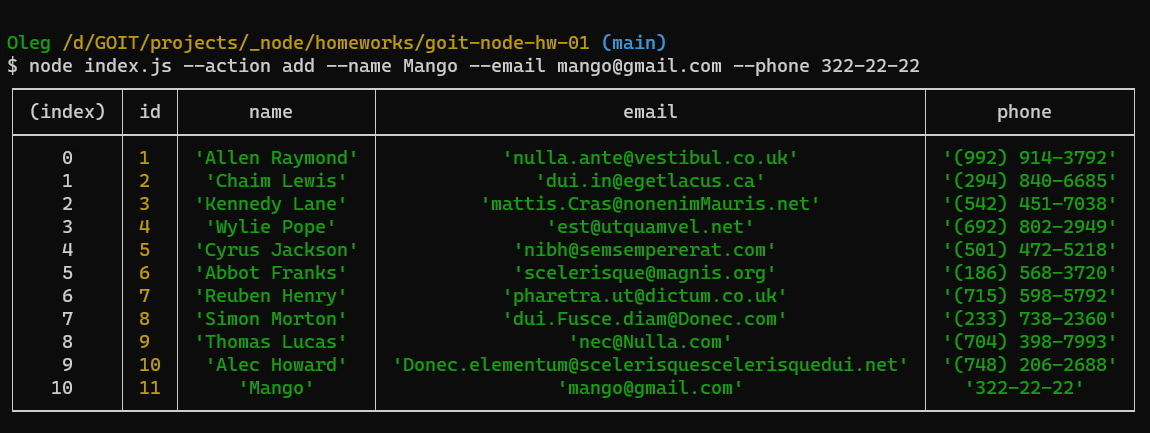
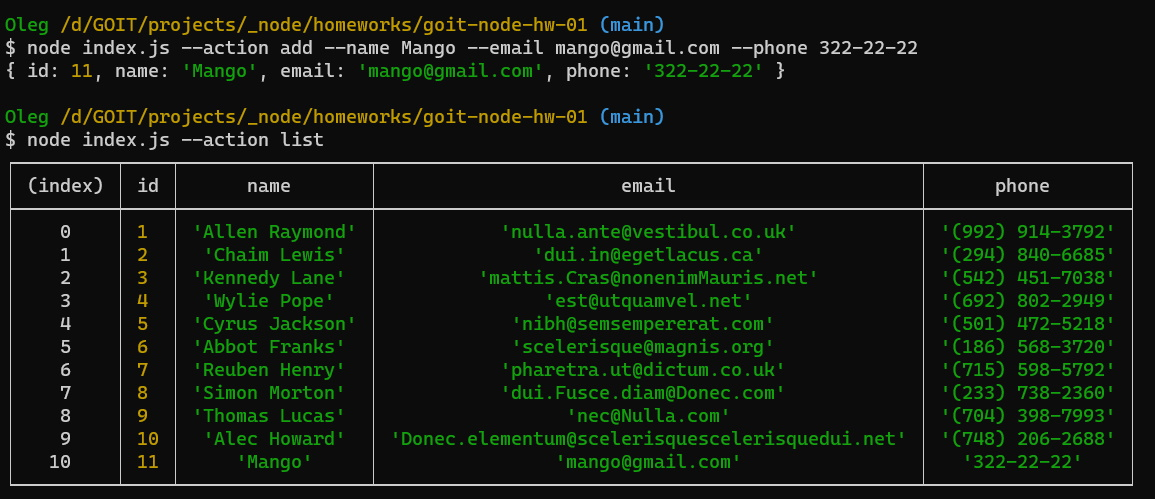
Refactoring add and remove functions

Changed region(s): [[0.0, 0.03, 1.0, 0.9908], [0.0304, 0.5104, 0.0609, 0.7506], [0.8522, 0.2402, 0.913, 0.2702]]

diff --git a/contacts.js b/contacts.js
@@ -6,10 +6,10 @@ const contactsPath = path.join(__dirname, 'db', 'contacts.json');
 // Получаем и выводим весь список контактов в виде таблицы (console.table)
 const listContacts = async () => {
   try {
-    const data = await fs.readFile(contactsPath, 'utf8');
-    return JSON.parse(data);
+    const contacts = await fs.readFile(contactsPath);
+    return JSON.parse(contacts);
   } catch (err) {
-    console.log(err);
+    console.error(err);
   }
 };
 
@@ -20,29 +20,34 @@ const getContactById = async contactId => {
     return;
   }
   try {
-    const data = await listContacts();
-    return data.find(item => item.id === contactId);
+    const contacts = await listContacts();
+    const contact = contacts.find(item => item.id === contactId);
+    if (!contact) {
+      return null;
+    }
+    return contact;
   } catch (err) {
-    console.log(err);
+    console.error(err);
   }
 };
 
 // Удаляем контакт
 const removeContact = async contactId => {
   if (!contactId) {
-    console.warn('Enter user ID');
+    console.warn('Id is not passed');
     return;
   }
   try {
-    const data = await listContacts();
-    const newContacts = data.filter(({ id }) => id !== contactId);
-    if (data.length === newContacts.length) {
-      return 'There is no such contact';
+    const contacts = await listContacts();
+    const contact = contacts.find(item => item.id === contactId);
+    if (!contact) {
+      return null;
     }
-    await fs.writeFile(contactsPath, JSON.stringify(newContacts), 'utf8');
-    return await listContacts();
+    const newContacts = contacts.filter(({ id }) => id !== contactId);
+    await fs.writeFile(contactsPath, JSON.stringify(newContacts));
+    return contact;
   } catch (err) {
-    console.log(err);
+    console.error(err);
   }
 };
 
@@ -54,21 +59,26 @@ const getNewId = async () => {
     await fs.writeFile(idsPath, String(newId), 'utf8');
     return newId;
   } catch (err) {
-    console.log(err);
+    console.error(err);
   }
 };
 
 // Добавялем контакт
 const addContact = async (name, email, phone) => {
   if (!name || !email || !phone) {
-    console.warn('Enter valid values');
+    console.warn('Valid values are not passed');
     return;
   }
-  const id = await getNewId();
-  const data = await listContacts();
-  data.push({ id, name, email, phone });
-  await fs.writeFile(contactsPath, JSON.stringify(data), 'utf8');
-  return await listContacts();
+  try {
+    const id = await getNewId();
+    const contacts = await listContacts();
+    const newContact = { id, name, email, phone };
+    contacts.push(newContact);
+    await fs.writeFile(contactsPath, JSON.stringify(contacts));
+    return newContact;
+  } catch (err) {
+    console.error(err);
+  }
 };
 
 module.exports = { listContacts, getContactById, removeContact, addContact };

diff --git a/index.js b/index.js
@@ -28,11 +28,11 @@ function invokeAction({ action, id, name, email, phone }) {
       break;
 
     case 'add':
-      addContact(name, email, phone).then(console.table);
+      addContact(name, email, phone).then(console.log);
       break;
 
     case 'remove':
-      removeContact(Number(id)).then(console.table);
+      removeContact(Number(id)).then(console.log);
       break;
 
     default:
@@ -40,4 +40,6 @@ function invokeAction({ action, id, name, email, phone }) {
   }
 }
 
-invokeAction(argv);
+(async () => {
+  await invokeAction(argv);
+})();
